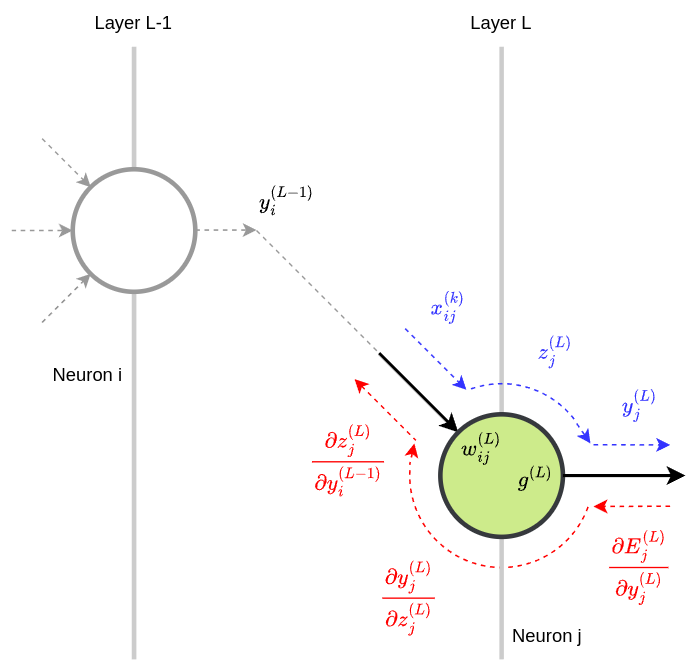
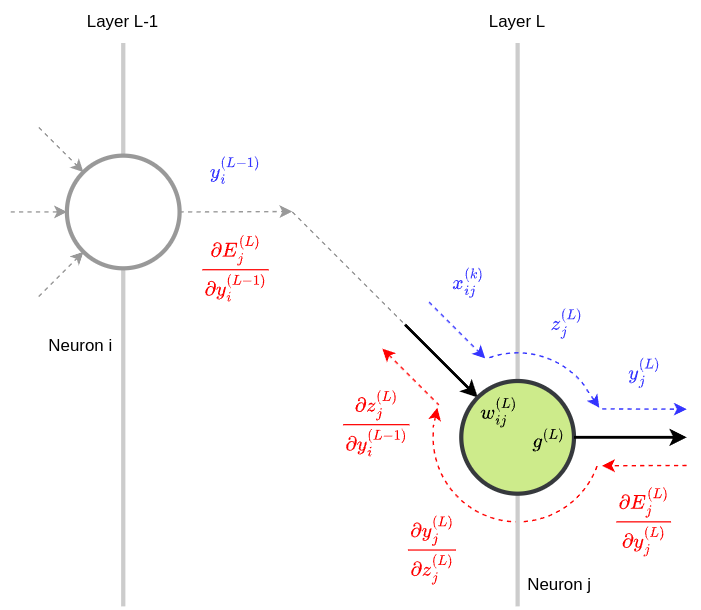
README - update of "Error Functions" section.

diff --git a/README.md b/README.md
@@ -42,18 +42,20 @@ Using (1) in (3) and writing the **bias** $b_{j}^{(k)}$ in terms of neuron's wei
  * every neuron in one layer is connected to every neuron in the next layer.
  */
 
-float Xj[N];
-float Wj[N+1];
+float Xj[Pk];
+float Wj[Pk+1];
 float Zj;
 float Yj;
 
-/* load X inputs (layer k) from Y outputs (layer k-1) */
+/* step 1: load X inputs (layer k) from Y outputs (layer k-1) */
 
+/* step 2: inputs weighting */
 Zj = Wj[N];
 for (int i = 0; i < N; ++i) {
 	Zj += Wj[i] * Xj[i];
 }
 
+/* step 3: output calculation */
 Yj = g(Zj);
 ~~~
 Regarding the partial derivatives of $y$ and $z$ we have:
@@ -64,6 +66,8 @@ Regarding the partial derivatives of $y$ and $z$ we have:
 (6) $\ \ \ \ \frac{\partial z_{j}^{(k)}}{\partial w_{ij}^{(k)}} = y_{i}^{(k-1)}$
 
 (7) $\ \ \ \ \frac{\partial z_{j}^{(k)}}{\partial y_{i}^{(k-1)}} = w_{ij}^{(k)}$
+
+Their usefulness will be clear in the following sections.
 
 ### Activation Functions:
 Activation Functions are mathematical equations that determine the output of a neural network's node and introduce non-linearity, enabling the network to model complex data patterns.
@@ -155,15 +159,15 @@ There are not interactions between the outputs of the neurons in the output laye
 
 (12) $\ \ \ \ \frac{\partial E_T^{(L)}}{\partial y_j^{(L)}} = \sum_{n=0}^{P_L-1} \frac{\partial E_n^{(L)}}{\partial y_j^{(L)}}$
 
-Considering that $\frac{\partial E_n^{(L)}}{\partial y_j^{(L)}} = 0$ for $j \neq n$, we have:
+Using (9) in (12) and considering that $\frac{\partial E_n^{(L)}}{\partial y_j^{(L)}} = 0$ for $j \neq n$, we have:
 
 (13) $\ \ \ \ \frac{\partial E_T^{(L)}}{\partial y_j^{(L)}} \equiv \frac{\partial E_j^{(L)}}{\partial y_j^{(L)}} \Rightarrow y_j^{(L)} - y_j$
 
-The equation (13) tells us how sensitive the error $E_j^{(L)}$ is to changes in the output $y_j^{(L)}$. These changes in $y_j$, in turn, depend on variations in $z_j$, given that $y_j = g(z_j)$. To find the relationship between variations in $E_j^{(L)}$ and variations in $z_j^{(L)}$, it worths recalling the **chain rule** for derivatives:
+Equation (13) tells us how sensitive the error $E_j^{(L)}$ is to changes in the output $y_j^{(L)}$. These changes in $y_j$, in turn, depend on variations in $z_j$, given that $y_j = g(z_j)$. To find the relationship between variations in $E_j^{(L)}$ and variations in $z_j^{(L)}$, it worths recalling the **chain rule** for derivatives:
 
 (14) $\ \ \ \ \frac{df}{dx} = \frac{df}{dg} \cdot \frac{dg}{dx}$
 
-In words, the derivative of a **composite function** $f\left(g(x)\right)$ with respect to $x$ is the product of the derivative of $f$ with respect to $g$ and the derivative of $g$ with respect to $x$. Applying this rule to the error $E_j^{(L)}$ we have:
+In other words, the derivative of a **composite function** $f\left(g(x)\right)$ with respect to $x$ is the product of the derivative of $f$ with respect to $g$ and the derivative of $g$ with respect to $x$. Applying this rule to the error $E_j^{(L)}$ we have:
 
 (15) $\ \ \ \ \frac{\partial E_j^{(L)}}{\partial z_j^{(L)}} = \frac{\partial E_j^{(L)}}{\partial y_j^{(L)}} \cdot \frac{\partial y_j^{(L)}}{\partial z_j^{(L)}}$
 
@@ -175,13 +179,19 @@ By applying the same method, it is possible to determine the relationship betwee
 
 (17) $\ \ \ \ \frac{\partial E_j^{(L)}}{\partial y_i^{(L-1)}} = \frac{\partial E_j^{(L)}}{\partial z_j^{(L)}} \cdot \frac{\partial z_j^{(L)}}{\partial y_i^{(L-1)}}$
 
-Using (7) and (16) in (17):
+Using (7) and (16) in (17) we have:
 
 (18) $\ \ \ \ \frac{\partial E_j^{(L)}}{\partial y_i^{(L-1)}} = \frac{\partial E_j^{(L)}}{\partial y_j^{(L)}} \cdot g'^{(L)}\left(z_j^{(L)}\right) \cdot w_{ij}^{(L)}$
 
-The equation (18) highlights an important concept: how variations in the $i$-th output of layer $L-1$ determine variations in $E_j^{(L)}$ in layer $L$. This forms the basis of the **back-propagation** algorithm.
+Equation (18) represents the amount of MSE variation that the $j$-th neuron in layer $L$ receives from the $i$-th neuron in layer $L-1$. However, the $i$-th neuron also supplies MSE variations to other neurons in layer $L$. Thus, the total amount of MSE variations that depend on the $i$-th neuron is:
+
+(19) $\ \ \ \ \frac{\partial E_i^{(L-1)}}{\partial y_i^{(L-1)}} = \sum_{j=0}^{P_{L-1}-1} \frac{\partial E_j^{(L)}}{\partial y_i^{(L-1)}}$
+
+Using (17) in (19) we have:
+
+(20) $\ \ \ \ \frac{\partial E_i^{(L-1)}}{\partial y_i^{(L-1)}} = \sum_{j=0}^{P_{L-1}-1} \frac{\partial E_j^{(L)}}{\partial y_j^{(L)}} \cdot g'^{(L)}\left(z_j^{(L)}\right) \cdot w_{ij}^{(L)}$
 
 ![Fig. 2](resources/images/g_ffn_fig02.png)
 
 ### Back-propagation
-Back-propagation is a key **learning algorithm** for artificial neural networks that calculates the gradient of the Error Function with respect to the network's weights by applying the **chain rule**. It adjusts the weights iteratively to minimize the error and improve the model's predictions.
+Back-propagation is a key **learning algorithm** for artificial neural networks that calculates the gradient of the Error Function with respect to the network's weights by applying the **chain rule**. It adjusts the weights iteratively to minimize the error and improve the model's predictions. 
